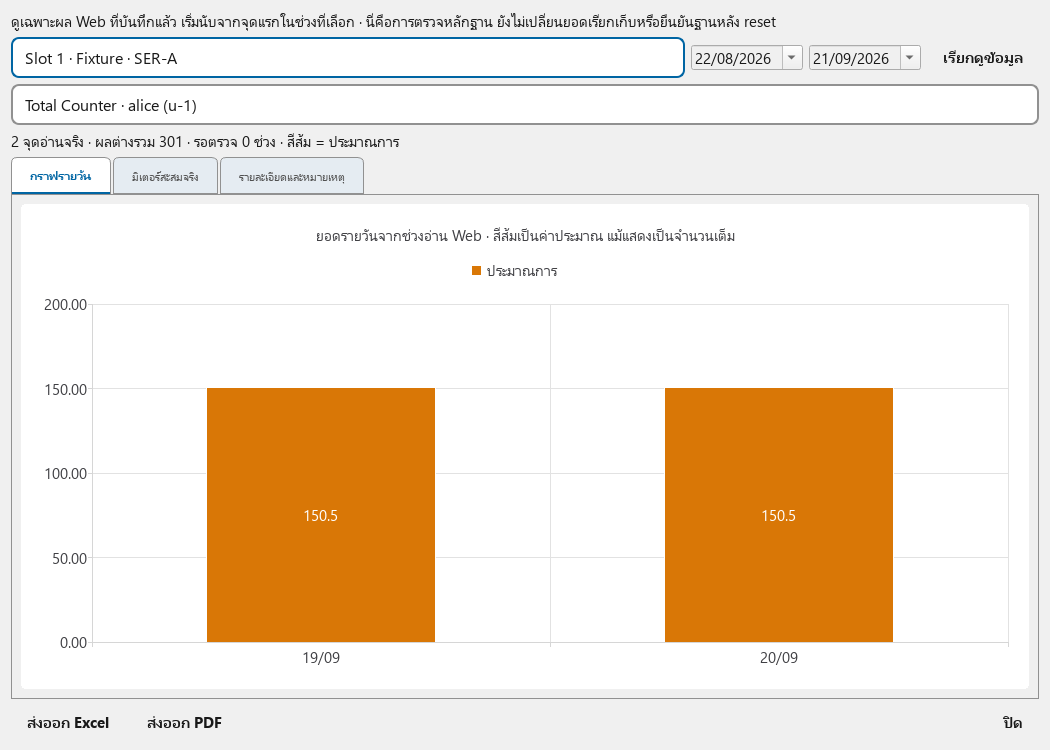
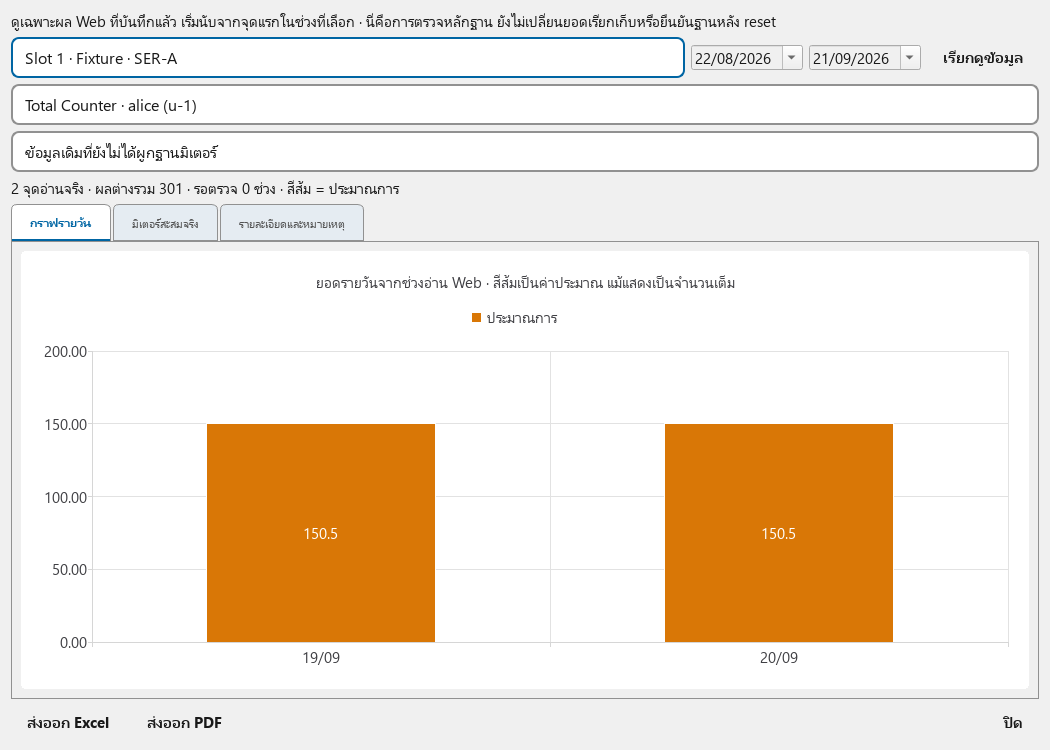
Separate reviewed meter epochs in Web evidence reports and exports

diff --git a/source/services/web_evidence_report.py b/source/services/web_evidence_report.py
@@ -38,8 +38,9 @@ def load_evidence(database_path, *, slot, serial, start, end, calendar_timezone,
     first = datetime.combine(start, time.min, calendar_timezone).isoformat()
     last = datetime.combine(end + timedelta(days=1), time.min, calendar_timezone).isoformat()
     store = WebObservationStore(Path(database_path))
-    events, size, choices = [], 0, {}
+    events, size, choices, groups = [], 0, {}, {}
     with closing(sqlite3.connect(store.path)) as conn:
+        conn.execute("BEGIN")
         rows = conn.execute("""SELECT event_id,document_json,archive_id FROM web_observations
             WHERE device_slot=? AND device_serial=? AND julianday(observed_at)>=julianday(?)
               AND julianday(observed_at)<julianday(?) ORDER BY sequence LIMIT ?""",
@@ -54,6 +55,20 @@ def load_evidence(database_path, *, slot, serial, start, end, calendar_timezone,
                 raise ValueError("ข้อมูลในช่วงนี้มากเกินไป กรุณาเลือกช่วงวันที่สั้นลง")
             event = json.loads(document)
             events.append(event)
+            assigned = [item[0] for item in conn.execute("SELECT epoch_id FROM slot_meter_assignments WHERE event_id=?", (event_id,))]
+            for epoch_id in assigned or [None]:
+                if epoch_id not in groups:
+                    epoch = None
+                    label = "ข้อมูลเดิมที่ยังไม่ได้ผูกฐานมิเตอร์"
+                    if epoch_id is not None:
+                        from services.slot_epoch_store import SlotEpochStore
+                        epoch = SlotEpochStore._epoch(conn, epoch_id)
+                        definition = epoch["document"]
+                        action = {"initial": "ฐานเริ่มต้น", "reset": "หลังรีเซ็ต", "replacement": "หลังเปลี่ยนเครื่อง"}[definition["operation"]]
+                        at = datetime.fromisoformat(definition["baseline_event"]["payload"]["observed_at"]).astimezone(calendar_timezone)
+                        label = f"{action} · {at:%d/%m/%Y %H:%M} · {epoch_id[:8]}"
+                    groups[epoch_id] = {"epoch": epoch, "label": label, "events": []}
+                groups[epoch_id]["events"].append(event)
             for c in event["payload"]["reading"]["counters"]:
                 if not c["canonical_field"].startswith("counter."):
                     continue
@@ -63,14 +78,29 @@ def load_evidence(database_path, *, slot, serial, start, end, calendar_timezone,
         prices = [date.fromisoformat(row[0]) for row in conn.execute("SELECT DISTINCT effective_date FROM price_history WHERE device_slot=?", (slot,))]
         row = conn.execute("SELECT value FROM settings WHERE key='billing_day'").fetchone()
         billing_day = effective_billing_day(row[0] if row else None)
+        current = conn.execute("SELECT epoch_id FROM slot_meter_heads WHERE device_slot=?", (slot,)).fetchone()
     return {"events": events, "choices": sorted(choices.items(), key=lambda item: item[1]),
-            "price_change_dates": prices, "billing_day": billing_day}
+            "price_change_dates": prices, "billing_day": billing_day, "epochs": groups,
+            "current_epoch": current[0] if current and current[0] in groups else None}
 
 
-def inspect_counter(evidence, counter, *, slot, serial, start, end, calendar_timezone):
+def inspect_counter(evidence, counter, *, slot, serial, start, end, calendar_timezone, epoch_id=None):
     # Inspection is not approval of a reset epoch or a billable posting.
-    return project_counter(evidence["events"], slot=slot, serial=serial,
-        epoch_id=f"inspection:{serial}:{start}:{end}", counter=counter,
+    groups = evidence.get("epochs", {None: {"events": evidence["events"], "epoch": None}})
+    if epoch_id is None and len(groups) == 1:
+        epoch_id = next(iter(groups))
+    # The UI passes 'legacy' explicitly so choosing it cannot silently select
+    # a different group after an asynchronous load.
+    if epoch_id == "legacy":
+        epoch_id = None
+    elif epoch_id is None and len(groups) > 1:
+        raise ValueError("เลือกช่วงฐานมิเตอร์ก่อน ไม่รวมข้อมูลก่อนและหลังรีเซ็ต")
+    if epoch_id not in groups:
+        raise ValueError("ไม่พบข้อมูลในช่วงฐานมิเตอร์ที่เลือก")
+    group = groups[epoch_id]
+    return project_counter(group["events"], slot=slot, serial=serial,
+        epoch_id=epoch_id or f"inspection:{serial}:{start}:{end}", counter=counter,
+        reviewed_epoch=group["epoch"],
         calendar_timezone=calendar_timezone, billing_day=evidence["billing_day"],
         price_change_dates=evidence["price_change_dates"])
 
@@ -85,6 +115,7 @@ def export_evidence_xlsx(path, projection, *, printer, serial, counter_label):
     for row in [
         ["เครื่องพิมพ์", printer], ["Serial", serial], ["มิเตอร์", counter_label],
         ["รุ่นหลักฐาน", projection.revision],
+        ["ช่วงฐานมิเตอร์", projection.epoch_id],
         ["ขอบเขต", "เริ่มนับจากจุด Web แรกในช่วงที่เลือก; รายงานหลักฐานนี้ไม่ใช่ยอดเรียกเก็บหรือการยืนยันฐานหลัง reset"],
         ["กราฟประมาณการ", "เฉลี่ยเฉพาะวันที่ไม่มี Web ทั้งวัน ปัดเฉพาะการแสดง ยอดบันทึกวันก่อนกลับมาอ่านได้ไม่ถูกบวกซ้ำ"],
         ["ข้อควรตรวจ", review_labels(projection.issues)],

diff --git a/source/ui/web_evidence_report.py b/source/ui/web_evidence_report.py
@@ -35,6 +35,7 @@ def projection_pdf(path, projection, *, title):
     document.setHtml(
         "<style>body{font-family:'Tahoma';font-size:9pt}td,th{padding:5px}th{background:#eaf2f8}</style>"
         f"<h2>{html.escape(title)}</h2><p>เริ่มนับจากจุด Web แรกในช่วงที่เลือก · รายงานหลักฐาน ไม่ใช่ยอดเรียกเก็บ</p>"
+        f"<p>ช่วงฐานมิเตอร์: {html.escape(projection.epoch_id)}</p>"
         f"<p>รุ่นหลักฐาน: {projection.revision}</p><p>ข้อควรตรวจ: {html.escape(review_labels(projection.issues))}</p>"
         "<h3>ยอดตามช่วงอ่าน</h3><table border='1' cellspacing='0'><thead><tr><th>เริ่ม</th><th>ถึง</th><th>ผลต่าง</th>"
         "<th>วันลงยอด</th><th>หมายเหตุ</th><th>รอตรวจ</th></tr></thead>" + "".join(rows) + "</table>"
@@ -87,6 +88,9 @@ class WebEvidenceDialog(QDialog):
         layout.addLayout(controls)
         self.counters = QComboBox()
         layout.addWidget(self.counters)
+        self.epochs = QComboBox()
+        self.epochs.setAccessibleName("ช่วงฐานมิเตอร์ · แยกก่อนและหลังรีเซ็ต")
+        layout.addWidget(self.epochs)
         self.status = plain("")
         layout.addWidget(self.status)
         self.tabs = QTabWidget()
@@ -119,6 +123,7 @@ class WebEvidenceDialog(QDialog):
         self.timer.timeout.connect(self.collect)
         self.load_button.clicked.connect(self.load)
         self.counters.currentIndexChanged.connect(self.project)
+        self.epochs.currentIndexChanged.connect(self.project)
         self.xlsx_button.clicked.connect(lambda: self.export("xlsx"))
         self.pdf_button.clicked.connect(lambda: self.export("pdf"))
         self.devices.currentIndexChanged.connect(self.invalidate)
@@ -130,13 +135,14 @@ class WebEvidenceDialog(QDialog):
         self.xlsx_button.setEnabled(False)
         self.pdf_button.setEnabled(False)
         self.counters.clear()
+        self.epochs.clear()
         self.table.setRowCount(0)
         self._replace_chart(self.chart, QChart())
         self._replace_chart(self.cumulative, QChart())
         self.status.setText("เลือกช่วงแล้วกดเรียกดูข้อมูล")
 
     def _busy(self, value):
-        for control in (self.devices, self.start_date, self.end_date, self.counters):
+        for control in (self.devices, self.start_date, self.end_date, self.counters, self.epochs):
             control.setEnabled(not value)
         self.load_button.setEnabled(not value and self.devices.count() > 0)
         self.xlsx_button.setEnabled(not value and self.projection is not None)
@@ -165,7 +171,8 @@ class WebEvidenceDialog(QDialog):
         self._busy(True)
         self.status.setText("กำลังตรวจช่วงข้อมูลและคำนวณค่าเฉลี่ย…")
         self.job = "project"
-        self.future = self.pool.submit(inspect_counter, self.evidence, self.counters.currentData(), **self.request)
+        self.future = self.pool.submit(inspect_counter, self.evidence, self.counters.currentData(),
+            epoch_id=self.epochs.currentData(), **self.request)
         self.timer.start()
 
     def collect(self):
@@ -185,6 +192,13 @@ class WebEvidenceDialog(QDialog):
         self._busy(False)
         if self.job == "load":
             self.evidence = result
+            self.epochs.blockSignals(True)
+            for epoch_id, group in result["epochs"].items():
+                self.epochs.addItem(group["label"], epoch_id or "legacy")
+            preferred_epoch = self.epochs.findData(result["current_epoch"])
+            if preferred_epoch >= 0:
+                self.epochs.setCurrentIndex(preferred_epoch)
+            self.epochs.blockSignals(False)
             self.counters.blockSignals(True)
             for key, label in result["choices"]:
                 self.counters.addItem(label, key)

diff --git a/source/tests/test_web_evidence_report.py b/source/tests/test_web_evidence_report.py
@@ -86,3 +86,63 @@ def test_missing_history_shows_unavailable_instead_of_zero_result():
     assert "ไม่มีผล Web" in dialog.status.text()
     assert not dialog.xlsx_button.isEnabled()
     dialog.pool.shutdown(wait=True)
+
+
+def test_reviewed_reset_epochs_are_separate_in_projection_dialog_and_export(tmp_path):
+    from datetime import datetime, UTC
+    from services.web_observations import WebObservationStore
+    from test_slot_epoch_store import fixture, confirm
+    from test_subject_history import _reading
+    store, _, initial = fixture()
+    at = datetime(2026, 9, 18, 10, tzinfo=UTC)
+    events = WebObservationStore()
+    boundary = events.record(0, _reading(50, collected_at=at), at=at,
+        serial="OLD", printer_name="Fixture", epoch_id=initial)
+    reset = confirm(store, boundary, "reset")
+    at = datetime(2026, 9, 19, 10, tzinfo=UTC)
+    events.record(0, _reading(80, collected_at=at), at=at,
+        serial="OLD", printer_name="Fixture", epoch_id=reset)
+    args = dict(slot=0, serial="OLD", start=date(2026, 9, 16), end=date(2026, 9, 19), calendar_timezone=BANGKOK)
+    evidence = load_evidence(database.get_db_path(), **args, cancelled=Event())
+    counter = CounterIdentity("counter.user.total.total", "user", "u-1")
+    assert set(evidence["epochs"]) == {initial, reset}
+    with pytest.raises(ValueError, match="เลือกช่วงฐาน"):
+        inspect_counter(evidence, counter, **args)
+    projection = inspect_counter(evidence, counter, **args, epoch_id=reset)
+    assert projection.total_usage == 30
+    assert [point.value for point in projection.points] == [50, 80]
+    exported = tmp_path / "reset.xlsx"
+    export_evidence_xlsx(exported, projection, printer="Fixture", serial="OLD", counter_label="User")
+    workbook = load_workbook(exported)
+    assert dict(workbook["ขอบเขตข้อมูล"].values)["ช่วงฐานมิเตอร์"] == reset
+    workbook.close()
+    dialog = WebEvidenceDialog(DeviceConfigRepository().list(enabled_only=False), today=date(2026, 9, 19), calendar_timezone=BANGKOK)
+    dialog.load()
+    dialog.future.result(timeout=10)
+    dialog.collect()
+    dialog.future.result(timeout=10)
+    dialog.collect()
+    assert dialog.epochs.count() == 2 and dialog.epochs.currentData() == reset
+    assert dialog.projection.total_usage == 30
+    dialog.epochs.setCurrentIndex(dialog.epochs.findData(initial))
+    assert not dialog.xlsx_button.isEnabled()
+    dialog.future.result(timeout=10)
+    dialog.collect()
+    assert dialog.projection.epoch_id == initial
+    assert "lower_counter_or_clock_conflict" in dialog.projection.issues
+    dialog.pool.shutdown(wait=True)
+
+
+def test_projector_rejects_bound_events_from_other_epoch():
+    from datetime import datetime, UTC
+    from services.web_observations import WebObservationStore
+    from services.web_usage_projection import project_counter
+    from test_slot_epoch_store import fixture
+    from test_subject_history import _reading
+    _, _, epoch = fixture()
+    at = datetime(2026, 9, 18, 10, tzinfo=UTC)
+    event = WebObservationStore().record(0, _reading(2010, collected_at=at), at=at,
+        serial="OLD", printer_name="Fixture", epoch_id=epoch)
+    with pytest.raises(ValueError, match="different reviewed"):
+        project_counter([event], slot=0, serial="OLD", epoch_id="unrelated",
+            counter=CounterIdentity("counter.user.total.total", "user", "u-1"), calendar_timezone=BANGKOK)

diff --git a/source/services/web_usage_projection.py b/source/services/web_usage_projection.py
@@ -100,7 +100,7 @@ class CounterProjection:
 
 def project_counter(events, *, slot: int, serial: str, epoch_id: str,
                     counter: CounterIdentity, calendar_timezone: tzinfo,
-                    billing_day: int = 31, price_change_dates=()):
+                    billing_day: int = 31, price_change_dates=(), reviewed_epoch=None):
     """Project one reviewed serial/counter epoch, independent of arrival order.
 
     Current value is the maximum, never a sum or last-arrival value. Decreases
@@ -114,6 +114,15 @@ def project_counter(events, *, slot: int, serial: str, epoch_id: str,
             or type(billing_day) is not int or not 1 <= billing_day <= 31):
         raise ValueError("A cumulative counter, calendar and reviewed meter epoch are required")
     changes = tuple(sorted(set(price_change_dates)))
+    reset_boundary = None
+    if reviewed_epoch is not None:
+        from services.slot_meter_continuity import validate_epoch
+        definition = validate_epoch(reviewed_epoch)
+        anchor = definition["baseline_event"]
+        if (reviewed_epoch["id"], anchor["payload"]["slot"], anchor["payload"]["serial"]) != (epoch_id, slot, serial):
+            raise ValueError("Reviewed epoch does not match this projection")
+        if definition["operation"] == "reset":
+            reset_boundary = (anchor["id"], definition["parent"])
     if any(type(day) is not date for day in changes):
         raise ValueError("Invalid price effective date")
     unique, jobs, web_days, by_time, schemas = {}, {}, set(), {}, set()
@@ -123,6 +132,9 @@ def project_counter(events, *, slot: int, serial: str, epoch_id: str,
         p = event["payload"]
         if (p["slot"], p["serial"]) != (slot, serial):
             raise ValueError("Cannot combine different slots or physical printers")
+        declared = p.get("meter_epoch_id")
+        if declared is not None and declared != epoch_id and (event["id"], declared) != reset_boundary:
+            raise ValueError("Cannot combine different reviewed meter epochs")
         if event["id"] in unique:
             continue
         job = p["origin"], p["read_id"]

diff --git a/docs/CUSTOMER_GUIDE_V5_2_12_DRAFT.md b/docs/CUSTOMER_GUIDE_V5_2_12_DRAFT.md
@@ -9,11 +9,16 @@
 1. เปิดส่วนตรวจสอบมิเตอร์ แล้วเลือก **ประวัติ Web และช่วงขาดการอ่าน**
 2. เลือกเครื่องพิมพ์และช่วงวันที่ไม่เกิน 93 วัน กด **เรียกดูข้อมูล**
 3. เลือกมิเตอร์รวม หรือมิเตอร์ของผู้ใช้ที่ต้องการดู
-4. ตรวจกราฟรายวัน กราฟสะสมจริง และรายละเอียด/หมายเหตุ ก่อนส่งออก
+4. หากมีหลายฐานมิเตอร์ ให้เลือกช่วงฐานที่ต้องการดู ระบบแยกก่อน–หลังรีเซ็ตหรือเปลี่ยนเครื่อง
+5. ตรวจกราฟรายวัน กราฟสะสมจริง และรายละเอียด/หมายเหตุ ก่อนส่งออก
 
 ระบบเรียกผล Web ที่บันทึกแล้ว รวมไฟล์ Archive เฉพาะช่วงที่ขอ จุดแรกในช่วง
 ที่เลือกเป็นฐานคำนวณของรายงานนี้ หากไม่มีหลักฐานจะแจ้งว่าไม่มีข้อมูล
 ไฟล์หายหรืออ่านไม่ได้จะแจ้งข้อผิดพลาด ไม่แสดงยอดศูนย์เป็นรายงานสำเร็จ
+
+ข้อมูลเดิมที่ยังไม่ผูกกับฐานที่ยืนยันจะแสดงเป็นกลุ่มแยก ไม่รวมอัตโนมัติกับฐานใหม่
+Excel/PDF ระบุช่วงฐานที่เลือกด้วย การเลือกช่วงในหน้านี้เป็นการดูหลักฐานเท่านั้น
+ขั้นตอนยืนยันและแจกจ่ายฐานร่วมระหว่างคอมยังอยู่ระหว่างพัฒนา
 
 ตัวอย่างศุกร์ 1,000 → จันทร์ 1,301 และไม่มี Web เลยวันเสาร์–อาทิตย์:
 

diff --git a/docs/V5_2_12_WORK_PLAN.md b/docs/V5_2_12_WORK_PLAN.md
@@ -175,6 +175,22 @@ bf453738b934dcf5bea59dd8c70e191b52ba6b89 และ merge เข้า local main
   หลักฐานทดสอบเก่าตรวจว่ามีบน GitHub/commit/tag/release จริงก่อนเก็บกวาด
 - ปรับคู่มือ ภาพหน้าจอ และขั้นตอนทดสอบสองเครื่องให้ตรง ก่อนขออนุญาต build
 
+### 2026-09-18 — epoch-aware evidence reports
+
+- Web evidence inspection now groups explicitly assigned observations by reviewed
+  epoch, including the reviewed reset boundary in both relevant histories.
+  Legacy unbound events remain a separate group. The dialog selects the current
+  reviewed epoch when present and offers previous epochs independently.
+- Projection rejects cross-epoch v2 events. Reset-boundary exceptions require
+  the exact validated review definition; no timestamp or Serial-only shortcut.
+  Excel/PDF identifies the selected epoch. Inspection still does not post usage
+  to billing or release legacy counter holds.
+- Evidence/projection/billing-period regression **22 passed**, including a
+  same-Serial 2,000 -> reset 50 -> 80 fixture producing 30 in the new epoch,
+  explicit old-epoch selection and disabled export while recalculating.
+- Regenerated and visually checked both Web evidence manual screenshots with
+  the actual offscreen Qt widgets. Updated the source manual selection steps.
+
 ### 2026-09-18 — durable slot epochs and reviewed peer ancestry
 
 - Schema 27 stores immutable slot epochs, an active head, explicit observation
